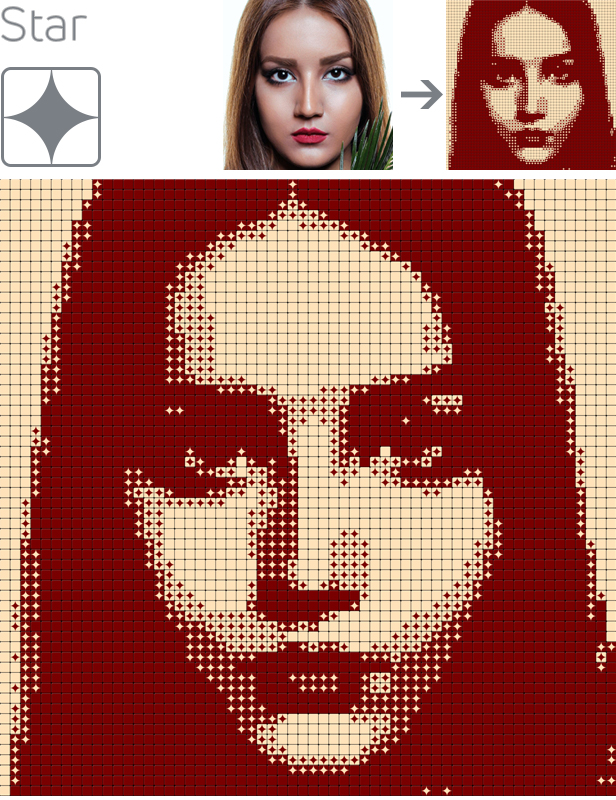
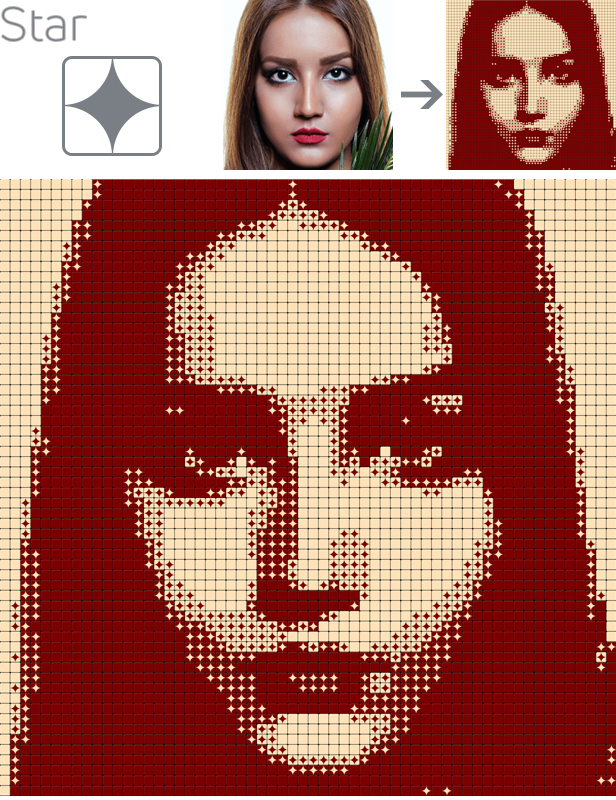
updt

Changed region(s): [[0.0, 0.0625, 0.2776, 0.2188]]

diff --git a/retromosaic/index.html b/retromosaic/index.html
@@ -39,7 +39,7 @@
 <img src="https://raw.githubusercontent.com/akidaniel/almacen/gh-pages/retromosaic/images/diamond.jpg" alt="Diamond">
 <img src="https://raw.githubusercontent.com/akidaniel/almacen/gh-pages/wipe_html/images/blank.jpg" alt="blank">
 
-<img src="https://raw.githubusercontent.com/akidaniel/almacen/gh-pages/retromosaic/images/cross.jpg" alt="Cross">
+<img src="https://raw.githubusercontent.com/akidaniel/almacen/gh-pages/retromosaic/images/star.jpg" alt="Star">
 <img src="https://raw.githubusercontent.com/akidaniel/almacen/gh-pages/wipe_html/images/blank.jpg" alt="blank">
 
 <img src="https://raw.githubusercontent.com/akidaniel/almacen/gh-pages/retromosaic/images/ear.jpg" alt="Ear">
